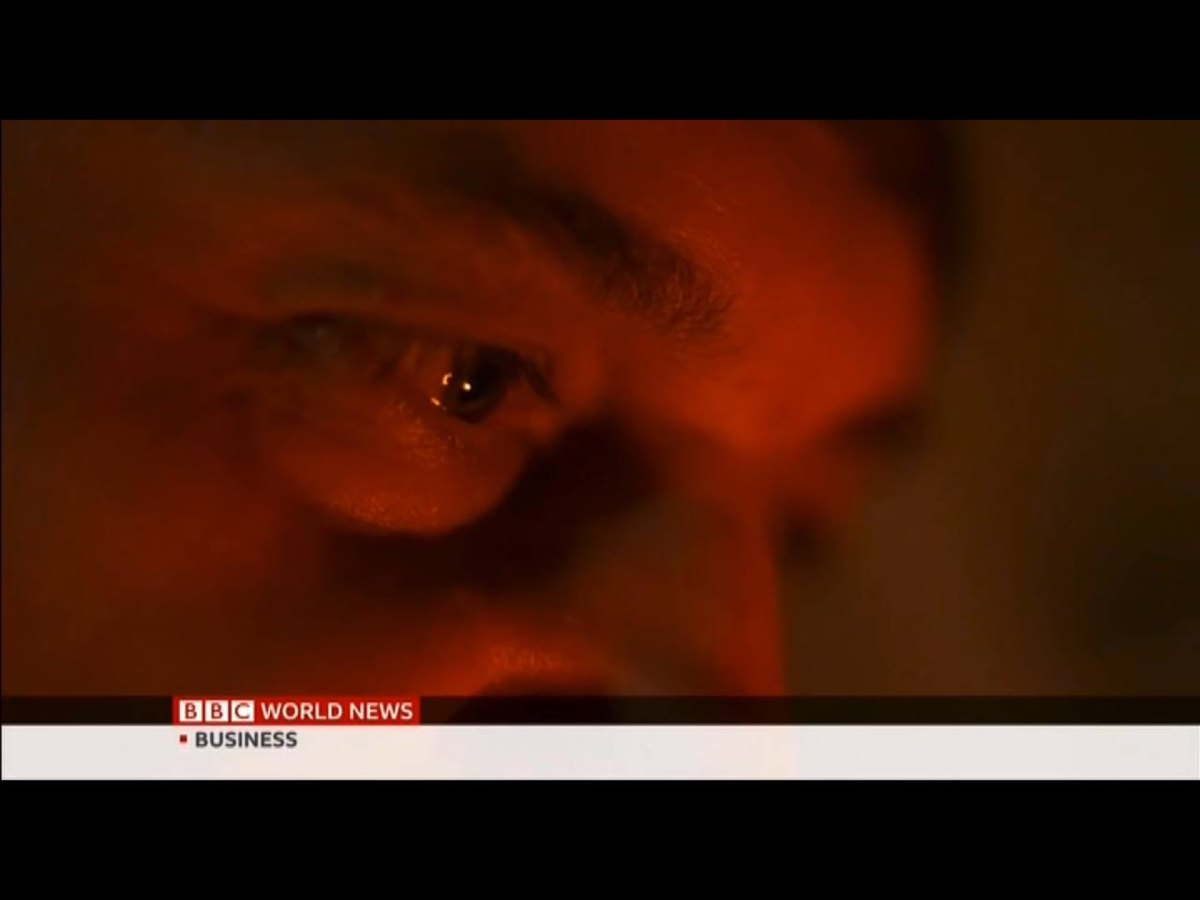
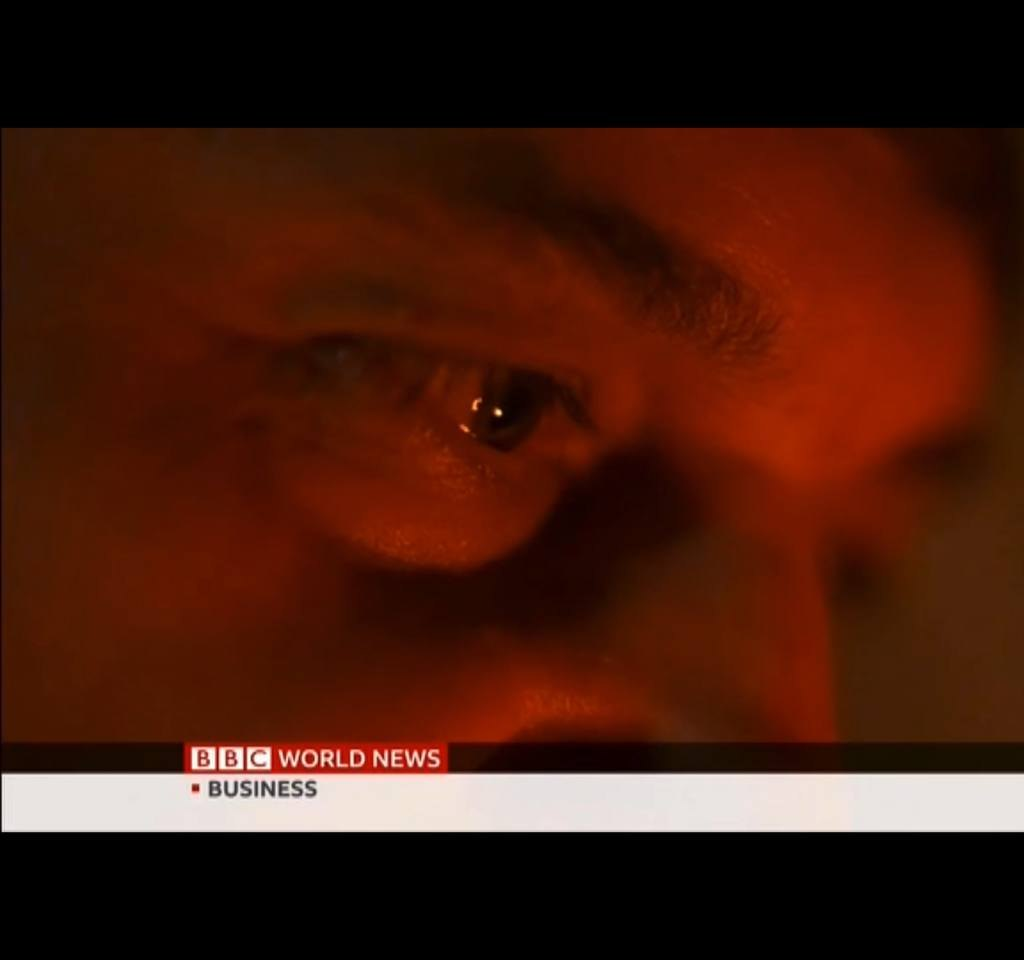
About: visible master photo (radial feather, BBC kept), stats under photo, wider text; align category/section heads (centered, right-aligned descriptions)

Changed region(s): [[0.125, 0.1244, 1.0, 0.84], [0.25, 0.3422, 0.2812, 0.3733]]

diff --git a/index.html b/index.html
@@ -1955,13 +1955,13 @@ footer {
   .swords-video-grid { grid-template-columns: 1fr 1fr 1fr; }
   @media (max-width: 760px) { .swords-video-grid { grid-template-columns: 1fr; } }
   /* Edit: master photo in bio */
-  .about-photo { position: static; }
-  .about-photo img { width: 100%; height: auto; display: block; border: none; border-radius: 2px;
-    -webkit-mask-image: linear-gradient(to right, transparent, #000 13%, #000 87%, transparent), linear-gradient(to bottom, transparent, #000 13%, #000 87%, transparent);
-    -webkit-mask-composite: source-in;
-    mask-image: linear-gradient(to right, transparent, #000 13%, #000 87%, transparent), linear-gradient(to bottom, transparent, #000 13%, #000 87%, transparent);
-    mask-composite: intersect; }
-  @media (max-width: 768px) { .about-grid { grid-template-columns: 1fr !important; } .about-photo { position: static; margin-top: 1rem; } }
+  .about-right { display: flex; flex-direction: column; gap: 1.75rem; }
+  .about-right .about-stats { margin: 0; }
+  .about-photo { position: relative; }
+  .about-photo img { width: 100%; height: auto; display: block; border: none;
+    -webkit-mask-image: radial-gradient(ellipse 80% 82% at 50% 50%, #000 56%, transparent 100%);
+    mask-image: radial-gradient(ellipse 80% 82% at 50% 50%, #000 56%, transparent 100%); }
+  @media (max-width: 768px) { .about-grid { grid-template-columns: 1fr !important; } .about-photo { position: static; margin-top: 1rem; height: auto; min-height: 0; } .about-photo img { height: auto; } }
   /* Edit: info cards size to content, smaller */
   .info-grid { align-items: start; }
   .info-card { padding: 1.6rem 1.5rem; }
@@ -1994,6 +1994,11 @@ footer {
   .gallery-videos { max-width: 820px; margin: 1.5rem auto; }
   /* Edit: more compact gallery CTA */
   .gallery-cta { padding: 1.6rem 2rem !important; }
+  /* Edit: align title (left) and description (right) on one line, right-align the right text */
+  .work-category-head { align-items: center !important; }
+  .work-category-desc { text-align: right; }
+  .section-head-row { align-items: center; }
+  .section-head-row .section-intro { text-align: right; }
 </style>
 </head>
 <body>
@@ -2076,7 +2081,7 @@ footer {
 <section class="about" id="about" data-bg-scene="2" style="padding: 4rem 2.5rem;">
 
   <div class="container">
-    <div class="about-grid" style="grid-template-columns:1fr 1fr; gap:4rem; align-items:center;">
+    <div class="about-grid" style="grid-template-columns:1.3fr 0.95fr; gap:4rem; align-items:start;">
       <div class="about-text">
         <div class="eyebrow"><span data-i18n="about_label">Майстер</span></div>
         <h2 data-i18n="about_title">Андрій <strong>Струневич</strong></h2>
@@ -2084,6 +2089,11 @@ footer {
         <p data-i18n="about_p2">Так народилося моє нове хобі — кузня. Вона стала моїм вікном у тишу: приїздив у село, гудів горн, грілася сталь — і світ заспокоювався.</p>
         <p data-i18n="about_p3">У 2014-му все змінилося — змінив бізнес на мультикам. Після служби довго не міг повернутися до звичайного життя. <strong>Кузня стала тим, що повертало бажання жити</strong>, вчитися, робити.</p>
         <p data-i18n="about_p4">Сьогодні володію знаннями, які дозволяють виготовити вироби будь-якої форми, конфігурації та конструкції. Буду радий викувати вашу <strong>сталеву мрію</strong>.</p>
+      </div>
+      <div class="about-right">
+        <div class="about-photo">
+          <img loading="lazy" decoding="async" src="images/master.jpg" alt="Андрій Струневич — майстер кузні VIY">
+        </div>
         <div class="about-stats">
           <div>
             <div class="stat-num">20+</div>
@@ -2098,9 +2108,6 @@ footer {
             <div class="stat-label" data-i18n="stat_passion">Майстер на виріб</div>
           </div>
         </div>
-      </div>
-      <div class="about-photo">
-        <img loading="lazy" decoding="async" src="images/master.jpg" alt="Андрій Струневич — майстер кузні VIY">
       </div>
     </div>
   </div>
